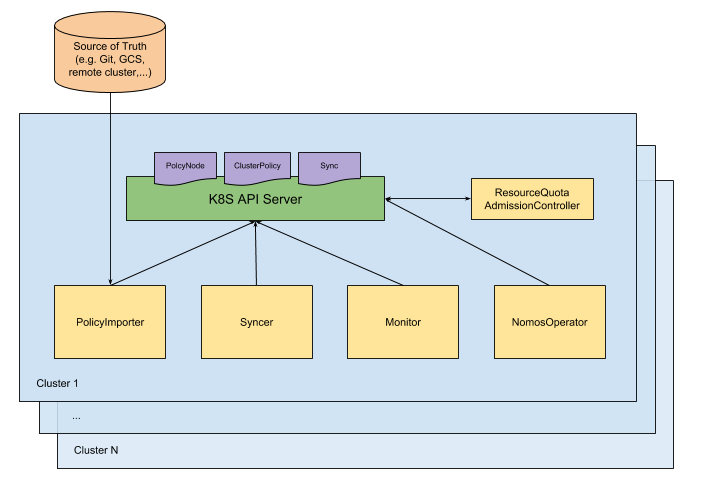
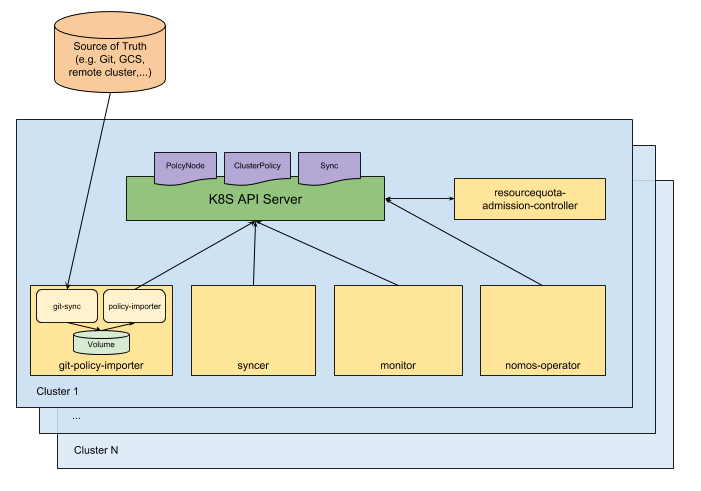
Extend System Overview docs to talk about containers in PolicyImporter

diff --git a/docs/user/system_overview.md b/docs/user/system_overview.md
@@ -2,12 +2,12 @@
 
 ![drawing](../img/nomos_arch.png)
 
-The above diagram is a simplified view of GKE Policy Management components
-running on multiple Kubernetes clusters. Each component is described below.
+System diagram above shows all GKE Policy Management components running on
+multiple Kubernetes clusters. Each component is described below.
 
-## PolicyImporter
+## git-policy-importer
 
-PolicyImporter is an abstraction for a controller that consumes policy
+A PolicyImporter is an abstraction for a controller that consumes policy
 definitions from an external source of truth and builds a canonical
 representation of the hierarchy using cluster-level CRD(s) defined by GKE Policy
 Management. GKE Policy Management can be extended to support different sources
@@ -15,44 +15,52 @@ of truth (e.g. Git, GCS, Active Directory) using different implementations of
 this abstraction. Note that we treat this canonical representation as internal
 implementation which should not be directly consumed by users.
 
+`git-policy-importer` is an implementation of PolicyImporter. The pod consists
+of 2 containers:
+
+*   `git-sync`: A side-car that pulls a Git repo into a volume mount. In the
+    future, this can be replaced with other implementations reading from a
+    different source of truth.
+*   `policy-importer`: Reads the repo from the volume mount and reconciles
+    resources via API server.
+
 ## CustomResourceDefinitions
 
 GKE Policy Management defines three custom resources:
 
-*   PolicyNode: A resource that stores hierarchical policy information. This
+*   `PolicyNode`: A resource that stores hierarchical policy information. This
     includes Roles, RoleBindings and ResourceQuota. PolicyNodes form a tree,
     where leaf nodes represent Namespaces.
-*   ClusterPolicy: A resource that stores cluster-level resources such as
+*   `ClusterPolicy`: A resource that stores cluster-level resources such as
     ClusterRoles and PodSecurityPolicies. There is only one ClusterPolicy per
     cluster.
-*   Sync: A resource that stores the resource types that GKE Policy Management
+*   `Sync`: A resource that stores the resource types that GKE Policy Management
     will sync from the source of truth.
 
-## Syncer
+## syncer
 
 A controller (currently packaged as a single binary) that consumes the canonical
-representation of the hierarchy produced by PolicyImporter and performs CRUD on
+representation of the hierarchy produced by policy-importer and performs CRUD on
 namespaces and [sync-enabled](system_config.md#Sync) resources.
 
-## ResourceQuotaAdmissionController
+## resourcequota-admission-controller
 
 A ValidatingAdmissionWebhook that enforces hierarchical quota policies which
 provides hierarchical quota on top of the existing ResourceQuota admission
 controller. This is an optional component if the user chooses not to use
 [hierarchical Resource Quota feature](rq.md).
 
-## Monitor
+## monitor
 
-Monitor is a controller that watches the ClusterPolicy and all PolicyNodes as
-they get updated by the PolicyImporter and Syncer. It aggregates status such as
-how many policies are synced or stale and the latency between import and sync.
-All metrics are exported as Prometheus metrics and documented on the
+A controller that watches the ClusterPolicy and all PolicyNodes as they get
+updated by the controllers above. It aggregates status such as how many policies
+are synced or stale and the latency between import and sync. All metrics are
+exported as Prometheus metrics and documented on the
 [Monitoring page](monitoring_and_debugging.md#gke-policy-management-metrics).
 
-## NomosOperator
+## nomos-operator
 
-NomosOperator is a [standard operator](https://coreos.com/operators/) which is
-used to install Nomos components on a cluster and update them as new versions
-become available.
+A [standard operator](https://coreos.com/operators/) which is used to install
+Nomos components on a cluster and update them as new versions become available.
 
 [< Back](../../README.md)

diff --git a/docs/user/installation.md b/docs/user/installation.md
@@ -54,7 +54,8 @@ Ensure that the current user has cluster-admin in the cluster:
 $ kubectl create clusterrolebinding cluster-admin-binding --clusterrole cluster-admin --user <user>
 ```
 
-On GKE clusters, `<user>` would be the GSuite account (e.g. `charlie@foo-corp.com`).
+On GKE clusters, `<user>` would be the GSuite account (e.g.
+`charlie@foo-corp.com`).
 
 ### Download Operator Manifest Bundle
 
